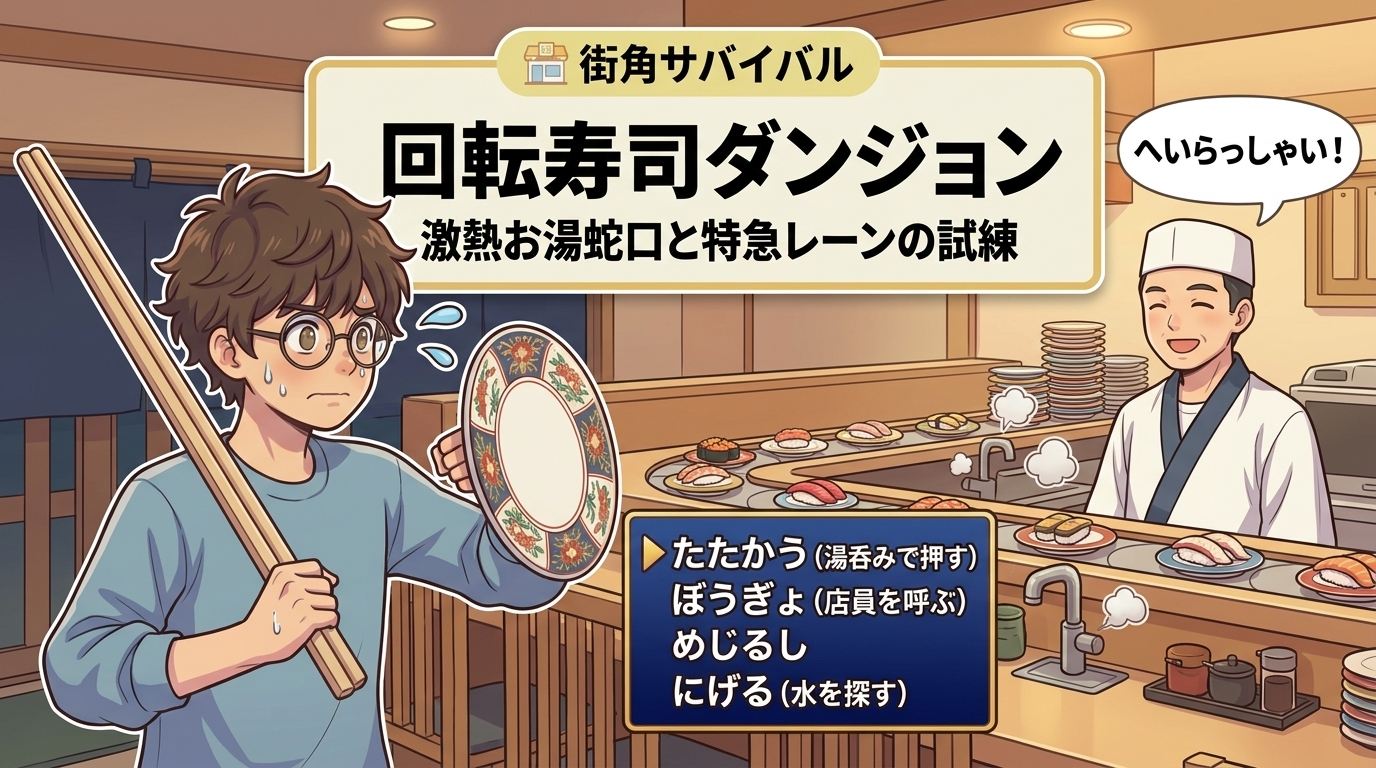
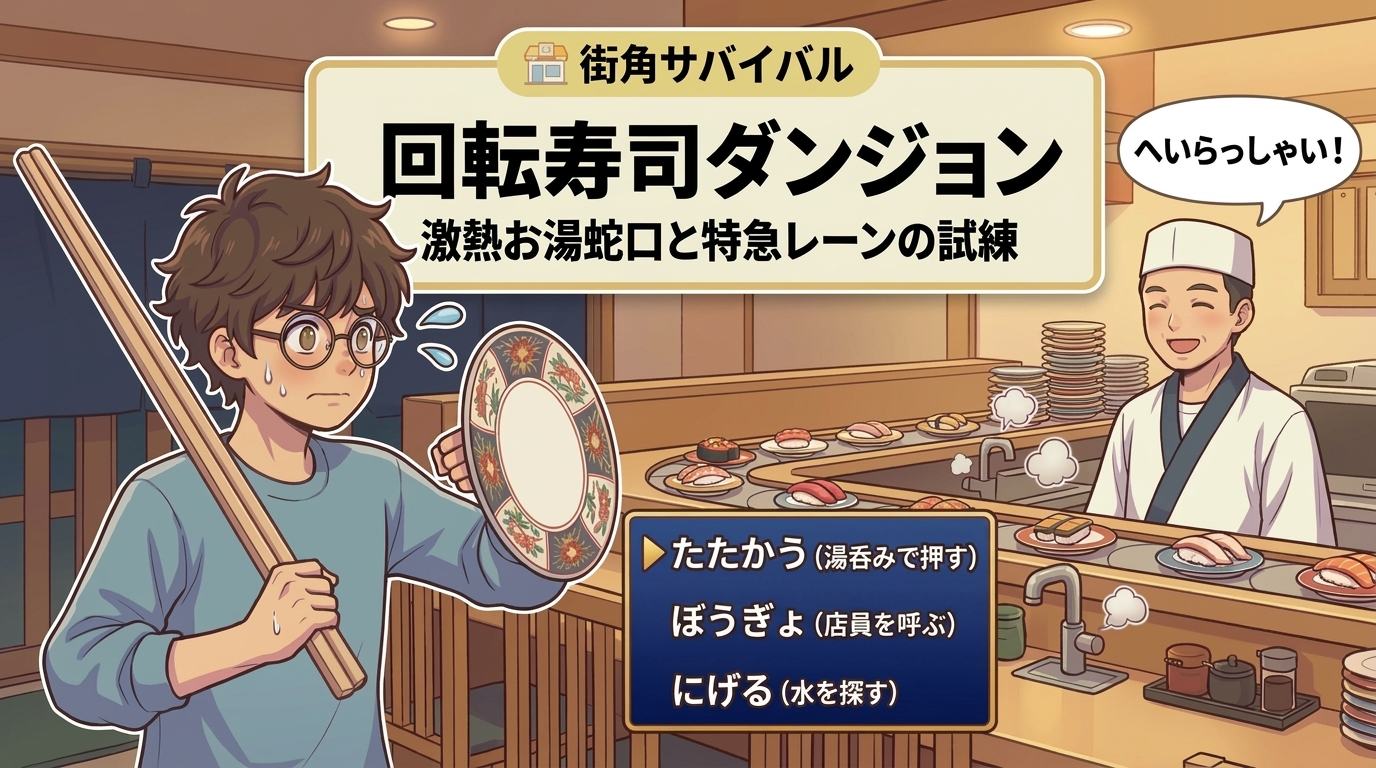
fix: 番号付きリスト分断バグ(1が重複する問題)のパーサー修復および回転寿司サムネイルのめじるし項目削除・再生成

diff --git a/scripts/core/repair_all_posts_gutenberg.py b/scripts/core/repair_all_posts_gutenberg.py
@@ -249,23 +249,98 @@ def md_to_gutenberg(md_text):
             i += 1
             continue
 
-        # 7. Unordered Lists
+        # 7. Unordered Lists (Supports multi-line items with descriptions)
         if line.startswith('* ') or line.startswith('- '):
             items = []
-            while i < len(lines) and (lines[i].strip().startswith('* ') or lines[i].strip().startswith('- ')):
-                it_text = format_inline_markdown(lines[i].strip()[2:])
-                items.append(it_text)
-                i += 1
+            while i < len(lines):
+                cur_line = lines[i].strip()
+                if not cur_line:
+                    peek = i + 1
+                    while peek < len(lines) and not lines[peek].strip():
+                        peek += 1
+                    if peek < len(lines) and (lines[peek].strip().startswith('* ') or lines[peek].strip().startswith('- ')):
+                        i += 1
+                        continue
+                    else:
+                        break
+                
+                if cur_line.startswith('* ') or cur_line.startswith('- '):
+                    item_head = format_inline_markdown(cur_line[2:])
+                    item_parts = [item_head]
+                    i += 1
+                    while i < len(lines):
+                        sub_line = lines[i].strip()
+                        if not sub_line:
+                            peek = i + 1
+                            while peek < len(lines) and not lines[peek].strip():
+                                peek += 1
+                            if peek < len(lines) and (lines[peek].strip().startswith('* ') or lines[peek].strip().startswith('- ')):
+                                break
+                            elif peek < len(lines) and (lines[peek].strip().startswith(('#', '>', '|', '---', '***', '___', '![', '```')) or re.match(r'^\d+\.\s+', lines[peek].strip())):
+                                break
+                            else:
+                                i += 1
+                                continue
+                        
+                        if sub_line.startswith('* ') or sub_line.startswith('- ') or sub_line.startswith(('#', '>', '|', '---', '***', '___', '![', '```')) or re.match(r'^\d+\.\s+', sub_line):
+                            break
+                        
+                        item_parts.append(format_inline_markdown(sub_line))
+                        i += 1
+                    
+                    item_content = "<br />".join([p for p in item_parts if p])
+                    items.append(item_content)
+                else:
+                    break
+            
             blocks.append("<!-- wp:list -->\n<ul>" + "".join([f"<li>{it}</li>" for it in items]) + "</ul>\n<!-- /wp:list -->")
             continue
 
-        # 8. Ordered Lists
+        # 8. Ordered Lists (Supports multi-line items with descriptions)
         if re.match(r'^\d+\.\s+', line):
             items = []
-            while i < len(lines) and re.match(r'^\d+\.\s+', lines[i].strip()):
-                it_text = format_inline_markdown(re.sub(r'^\d+\.\s+', '', lines[i].strip()))
-                items.append(it_text)
-                i += 1
+            while i < len(lines):
+                cur_line = lines[i].strip()
+                if not cur_line:
+                    peek = i + 1
+                    while peek < len(lines) and not lines[peek].strip():
+                        peek += 1
+                    if peek < len(lines) and re.match(r'^\d+\.\s+', lines[peek].strip()):
+                        i += 1
+                        continue
+                    else:
+                        break
+                
+                m = re.match(r'^\d+\.\s+(.*)', cur_line)
+                if m:
+                    item_head = format_inline_markdown(m.group(1))
+                    item_parts = [item_head]
+                    i += 1
+                    while i < len(lines):
+                        sub_line = lines[i].strip()
+                        if not sub_line:
+                            peek = i + 1
+                            while peek < len(lines) and not lines[peek].strip():
+                                peek += 1
+                            if peek < len(lines) and re.match(r'^\d+\.\s+', lines[peek].strip()):
+                                break
+                            elif peek < len(lines) and (lines[peek].strip().startswith(('#', '>', '|', '---', '***', '___', '![', '* ', '- ', '```')) or (lines[peek].strip().startswith('[') and lines[peek].strip().endswith(']'))):
+                                break
+                            else:
+                                i += 1
+                                continue
+                        
+                        if re.match(r'^\d+\.\s+', sub_line) or sub_line.startswith(('#', '>', '|', '---', '***', '___', '![', '* ', '- ', '```')) or (sub_line.startswith('[') and sub_line.endswith(']')):
+                            break
+                        
+                        item_parts.append(format_inline_markdown(sub_line))
+                        i += 1
+                    
+                    item_content = "<br />".join([p for p in item_parts if p])
+                    items.append(item_content)
+                else:
+                    break
+            
             blocks.append("<!-- wp:list {\"ordered\":true} -->\n<ol>" + "".join([f"<li>{it}</li>" for it in items]) + "</ol>\n<!-- /wp:list -->")
             continue
 

diff --git a/scripts/core/update_kaitenzushi_thumbnail.py b/scripts/core/update_kaitenzushi_thumbnail.py
@@ -1,0 +1,104 @@
+import paramiko
+import os
+import sys
+
+sys.stdout.reconfigure(encoding='utf-8')
+
+env_data = {}
+with open('.env.deploy', 'r', encoding='utf-8') as ef:
+    for line in ef:
+        line = line.strip()
+        if line and not line.startswith('#') and '=' in line:
+            k, v = line.split('=', 1)
+            env_data[k.strip()] = v.strip()
+
+ssh = paramiko.SSHClient()
+ssh.set_missing_host_key_policy(paramiko.AutoAddPolicy())
+ssh.connect(
+    hostname=env_data['SSH_HOST'],
+    port=int(env_data['SSH_PORT']),
+    username=env_data['SSH_USER'],
+    password=env_data['SSH_PASS'],
+    look_for_keys=False,
+    allow_agent=False
+)
+sftp = ssh.open_sftp()
+
+# 1. ローカルの更新画像をテーマの assets/images/thumbnails/ にアップロード
+local_thumb = 'assets/images/thumbnails/thumb-street-kaitenzushi-rpg.jpg'
+remote_theme_thumb = 'web/nihongo.oscarchair.jp/wp-content/themes/oscss-wp-nihongo/assets/images/thumbnails/thumb-street-kaitenzushi-rpg.jpg'
+
+sftp.put(local_thumb, remote_theme_thumb)
+print(f"Uploaded {local_thumb} -> {remote_theme_thumb}")
+
+# 2. WordPress側の添付ファイル（uploads/）を上書き更新し、リサイズ画像を再生成
+php_code = """<?php
+require_once(getenv('HOME') . '/web/nihongo.oscarchair.jp/wp-load.php');
+require_once(ABSPATH . 'wp-admin/includes/image.php');
+
+$slug = 'street-japanese-kaitenzushi-hot-water-express-lane-survival-guide';
+$post = get_page_by_path($slug, OBJECT, 'post');
+
+if (!$post) {
+    echo "Post not found for slug: $slug\n";
+    exit;
+}
+
+$thumb_filename = 'thumb-street-kaitenzushi-rpg.jpg';
+$theme_thumb_path = get_stylesheet_directory() . '/assets/images/thumbnails/' . $thumb_filename;
+
+// 既存のアイキャッチIDを取得
+$current_thumb_id = get_post_thumbnail_id($post->ID);
+
+if ($current_thumb_id) {
+    $attached_file = get_attached_file($current_thumb_id);
+    if ($attached_file && file_exists($theme_thumb_path)) {
+        // 元ファイルを新しいテーマ画像で上書き
+        copy($theme_thumb_path, $attached_file);
+        // 各種サムネイルサイズを再生成
+        $attach_data = wp_generate_attachment_metadata($current_thumb_id, $attached_file);
+        wp_update_attachment_metadata($current_thumb_id, $attach_data);
+        echo "Updated existing attachment ID: $current_thumb_id and regenerated metadata.\n";
+    }
+} else {
+    // 新規アタッチメントとして登録
+    $upload_dir = wp_upload_dir();
+    $dest_file = $upload_dir['path'] . '/' . $thumb_filename;
+    copy($theme_thumb_path, $dest_file);
+    $filetype = wp_check_filetype($thumb_filename, null);
+    $attachment = array(
+        'guid'           => $upload_dir['url'] . '/' . $thumb_filename,
+        'post_mime_type' => $filetype['type'],
+        'post_title'     => preg_replace('/\.[^.]+$/', '', $thumb_filename),
+        'post_content'   => '',
+        'post_status'    => 'inherit'
+    );
+    $new_thumb_id = wp_insert_attachment($attachment, $dest_file, $post->ID);
+    $attach_data = wp_generate_attachment_metadata($new_thumb_id, $dest_file);
+    wp_update_attachment_metadata($new_thumb_id, $attach_data);
+    set_post_thumbnail($post->ID, $new_thumb_id);
+    echo "Created new attachment ID: $new_thumb_id and set as thumbnail.\n";
+}
+
+clean_post_cache($post->ID);
+
+// キャッシュパージ
+if (function_exists('litespeed_purge_all')) {
+    litespeed_purge_all();
+}
+if (function_exists('opcache_reset')) {
+    opcache_reset();
+}
+echo "Finished updating thumbnail for {$post->post_title}\n";
+"""
+
+remote_php = 'web/nihongo.oscarchair.jp/wp-content/themes/oscss-wp-nihongo/temp_update_thumb.php'
+with sftp.file(remote_php, 'w') as f:
+    f.write(php_code)
+
+stdin, stdout, stderr = ssh.exec_command('LANG=ja_JP.UTF-8 /usr/local/php/8.2/bin/php $HOME/' + remote_php + ' && rm -f $HOME/' + remote_php)
+out = stdout.read().decode('utf-8', errors='ignore')
+print(out)
+
+sftp.close()
+ssh.close()
